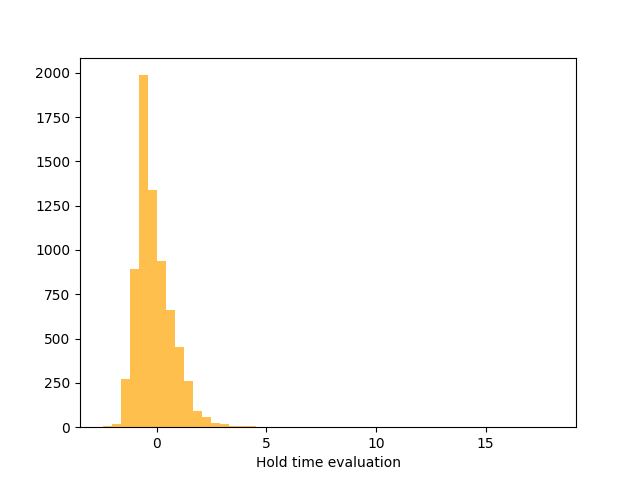
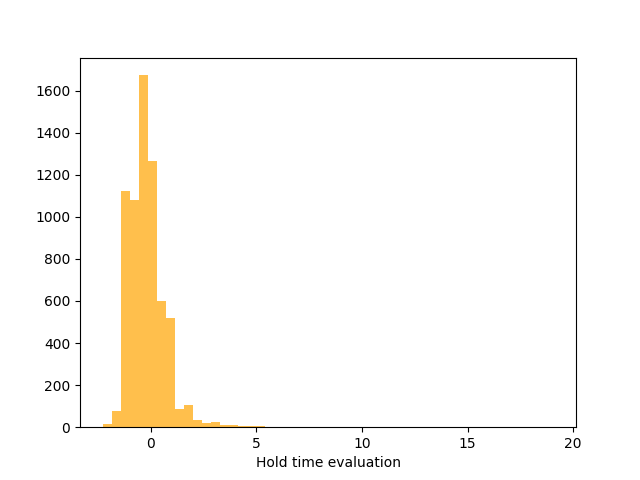
onehot added to samples

diff --git a/new_data/data_preprocessing.py b/new_data/data_preprocessing.py
@@ -9,7 +9,7 @@ import matplotlib.pyplot as plt
 from sklearn.preprocessing import StandardScaler
 from progress.bar import Bar
 
-TRAINING_USERS = 10
+TRAINING_USERS = 100
 EVALUATION_USERS = 10
 USERS = TRAINING_USERS + EVALUATION_USERS
 FILES_TO_READ = 4 * USERS
@@ -107,10 +107,12 @@ def ascii_encoding(keycodes):
     # onehot[26] -> SPACE
     # onehot[27] -> SHIFT
     # onehot[28] -> others
-    onehot = [[0] * 29] * len(keycodes)
+
     # ASCII A - Z => 65 -> 90
     # SPACE => 32
     # SHIFT => 16
+
+    onehot = [[0 for _ in range(29)] for _ in range(len(keycodes))]
     for i in range(len(keycodes)):
         key = keycodes[i]
         if 65 <= key <= 90:
@@ -140,10 +142,7 @@ def get_user_data(data):
 
         keycodes = ascii_encoding(group['KEYCODE'].to_numpy())
         group.drop(['KEYCODE'], inplace=True, axis=1)
-        output = pd.concat([group, keycodes], axis=1)
-
-        print(output)
-        exit(0)
+        output = pd.concat([group.reset_index(drop=True), keycodes.reset_index(drop=True)], axis=1, ignore_index=True)
 
         transposed = output.T
 
@@ -230,7 +229,7 @@ def main():
             try:
                 file_path = "./Keystrokes/files/" + filename
                 data = pd.read_csv(file_path, sep="\t", encoding="utf-8")
-                data.drop(['SENTENCE', 'USER_INPUT', 'LETTERS', 'KEYSTROKE_ID'], inplace=True, axis=1)
+                data.drop(['SENTENCE', 'USER_INPUT', 'LETTER', 'KEYSTROKE_ID'], inplace=True, axis=1)
                 data.rename(columns={'TEST_SECTION_ID': 'SECTION_ID'}, inplace=True)
                 data['HOLD'] = data['RELEASE_TIME'] - data['PRESS_TIME']
                 data['BETWEEN'] = data['PRESS_TIME'] - data['RELEASE_TIME'].shift()

diff --git a/neural_network.py b/neural_network.py
@@ -12,7 +12,7 @@ from sklearn.model_selection import train_test_split
 from new_data.data_preprocessing import TRAINING_USERS, PROBE_SIZE
 import sys
 
-INPUT_SIZE = (3, PROBE_SIZE)  # number of attributes - it will be the size of an input vector
+INPUT_SIZE = (32, PROBE_SIZE)  # number of attributes - it will be the size of an input vector
 ENROLL_SIZE = 10
 
 np.set_printoptions(threshold=sys.maxsize)
